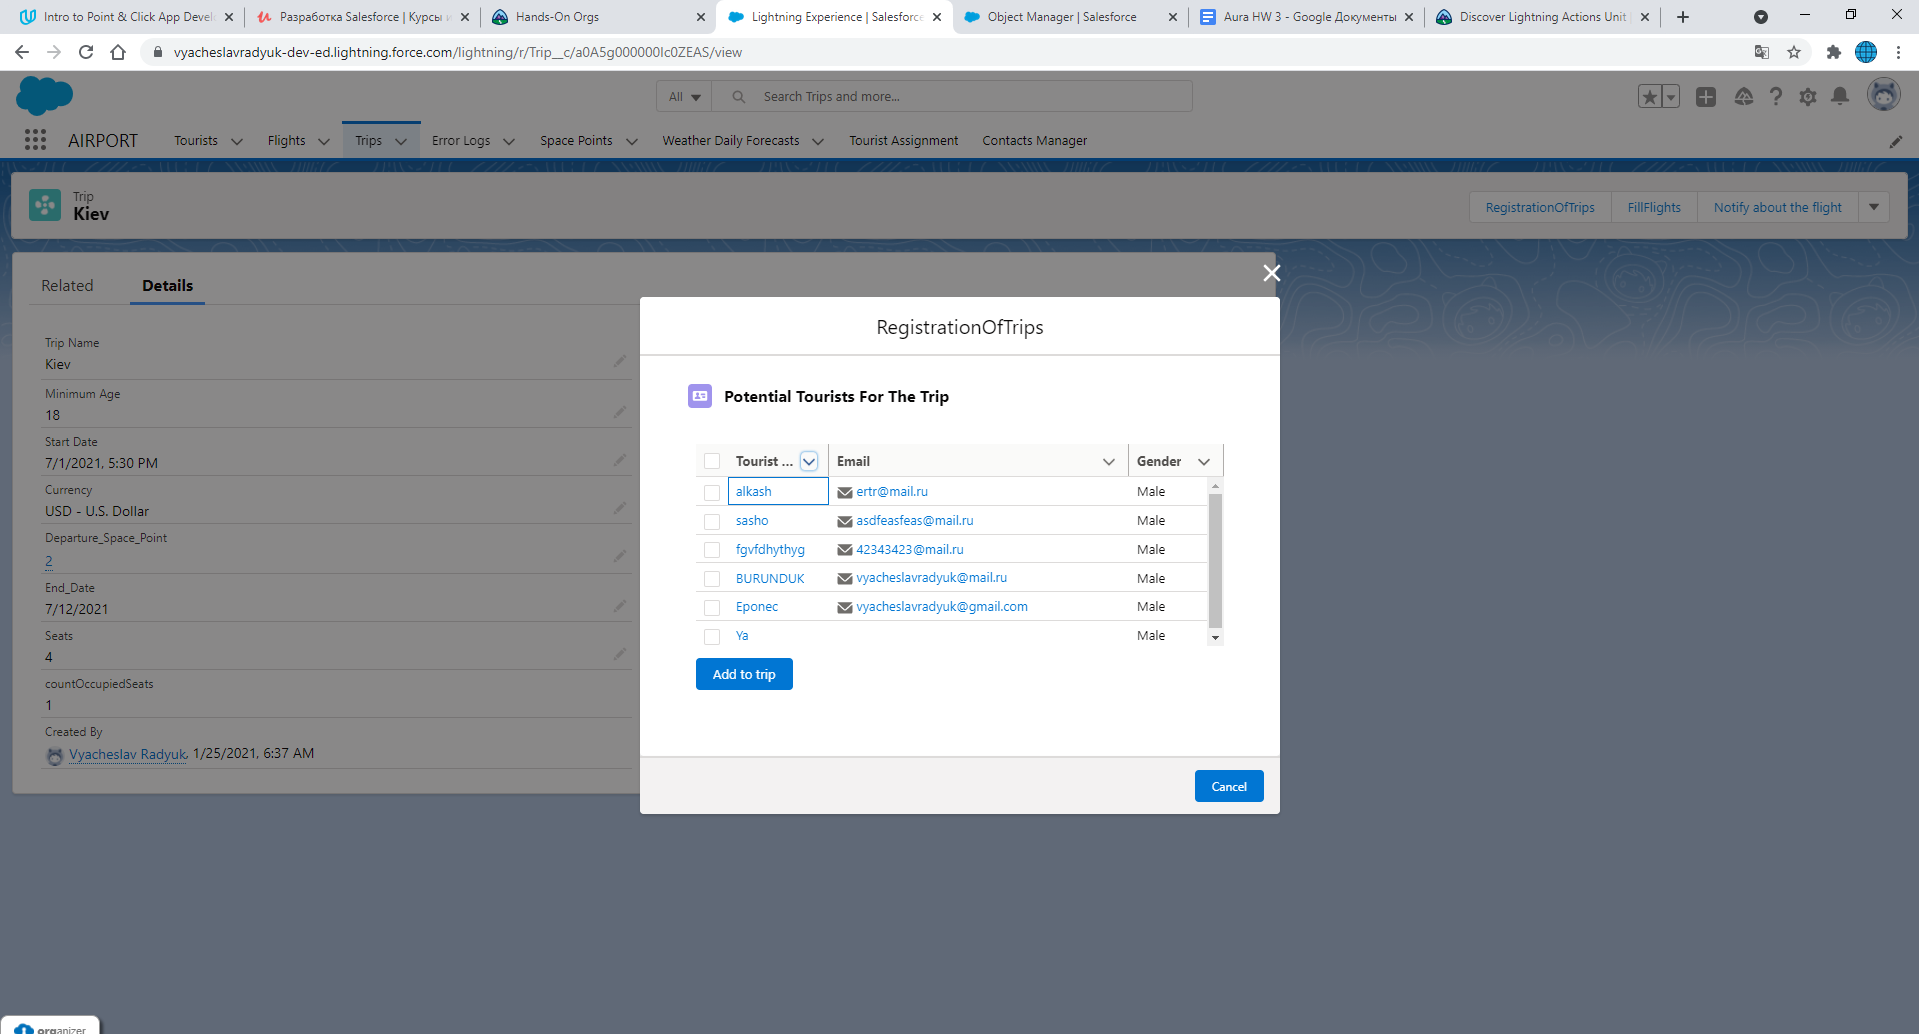
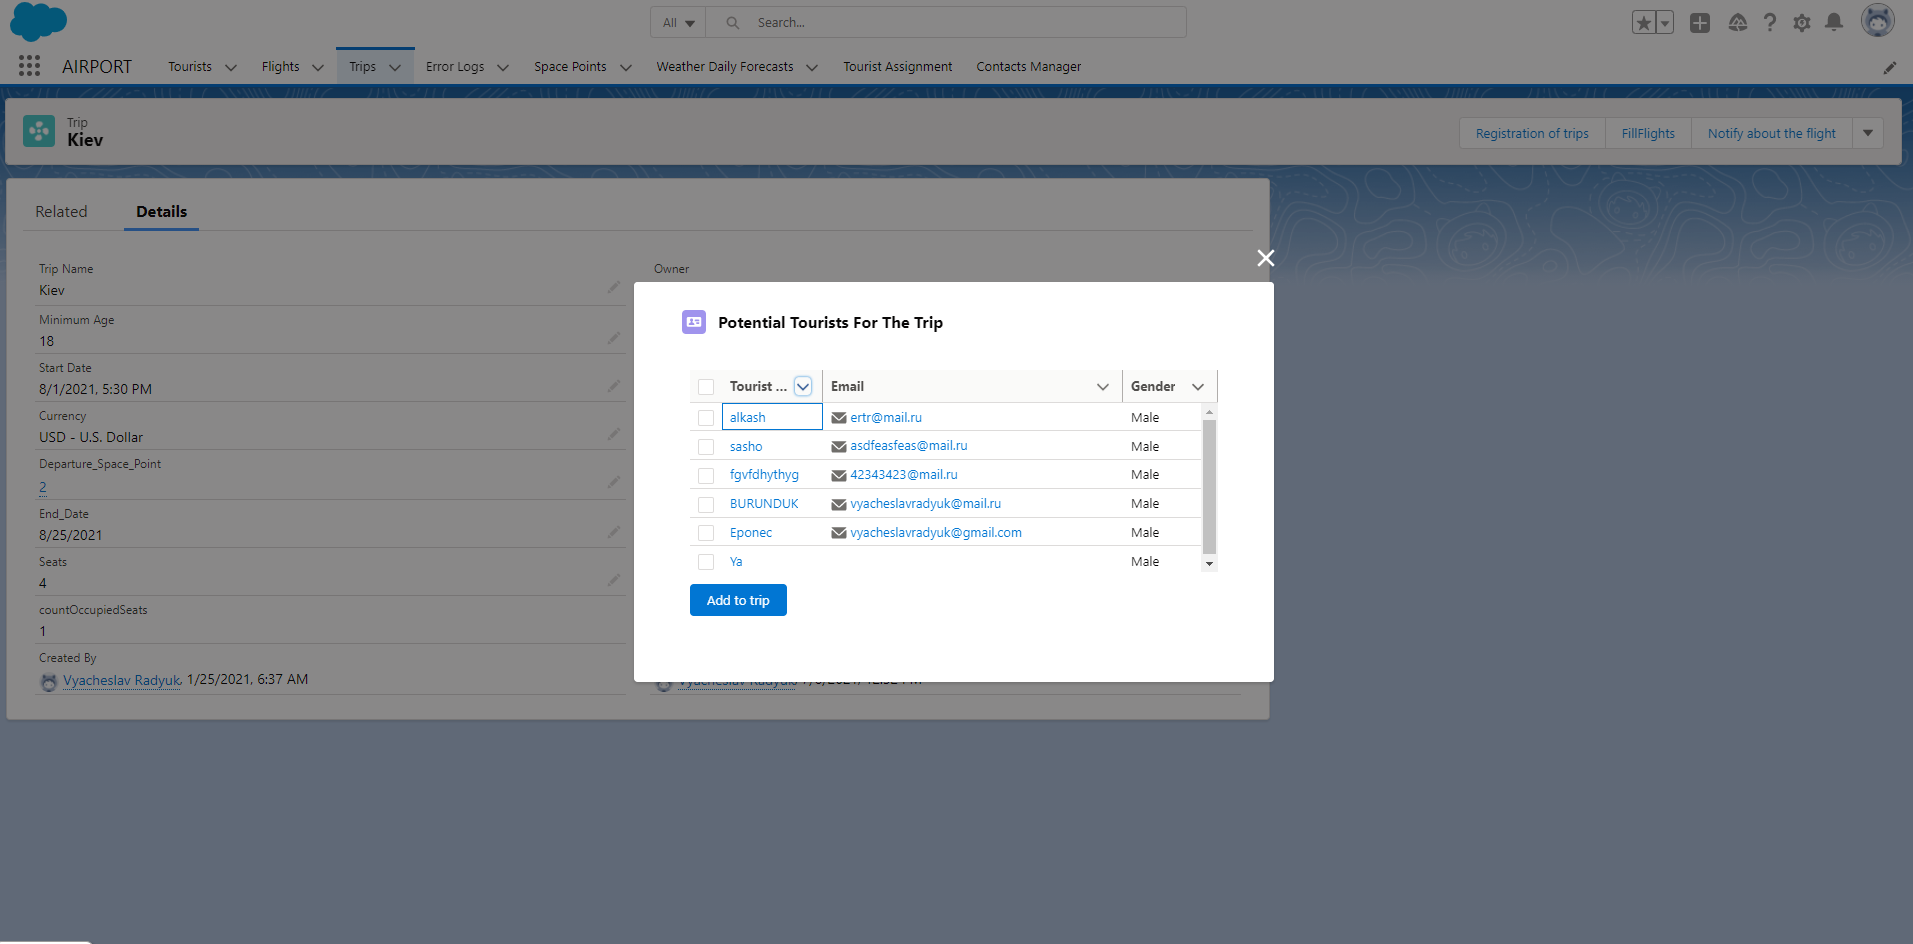
removed the second modal into a component

Changed region(s): [[0.0, 0.0, 1.0, 0.7987], [0.586, 0.3994, 0.6477, 0.6144], [0.0, 0.9831, 0.0617, 1.0]]

diff --git a/lecture_3.4/aura/RegistrationOfTrips/RegistrationOfTripsController.js b/lecture_3.4/aura/RegistrationOfTrips/RegistrationOfTripsController.js
@@ -8,7 +8,8 @@
         helper.validationTrip(component, event);
     },
     
-    handleClick : function (component, event, helper) {               
+    handleClick : function (component, event, helper) { 
+        component.set("v.showDatatable", false);
         let countSeats = component.get('v.trip').Seats__c;
         let countOccupiedSeats = component.get('v.trip').countOccupiedSeats__c;    
         let startDate = component.get('v.trip').Start_Date__c;
@@ -39,10 +40,12 @@
     
     confirmDialogNo : function(component, helper) {
         component.set('v.showConfirmWindow', false);
+        component.set("v.showDatatable", true);
     },
     
     confirmDialogYes : function(component, event, helper) {
         component.set('v.showConfirmWindow', false);
+        component.set("v.showDatatable", true);
         helper.createFlights(component, event);
     }
 })

diff --git a/lecture_3.5/aura/RegistrationOfTrips/RegistrationOfTripsController.js b/lecture_3.5/aura/RegistrationOfTrips/RegistrationOfTripsController.js
@@ -8,7 +8,8 @@
         helper.validationTrip(component, event);
     },
     
-    handleClick : function (component, event, helper) {               
+    handleClick : function (component, event, helper) { 
+        component.set("v.showDatatable", false);
         let countSeats = component.get('v.trip').Seats__c;
         let countOccupiedSeats = component.get('v.trip').countOccupiedSeats__c;    
         let startDate = component.get('v.trip').Start_Date__c;
@@ -39,10 +40,12 @@
     
     confirmDialogNo : function(component, helper) {
         component.set('v.showConfirmWindow', false);
+        component.set("v.showDatatable", true);
     },
     
     confirmDialogYes : function(component, event, helper) {
         component.set('v.showConfirmWindow', false);
+        component.set("v.showDatatable", true);
         helper.createFlights(component, event);
     }
 })
